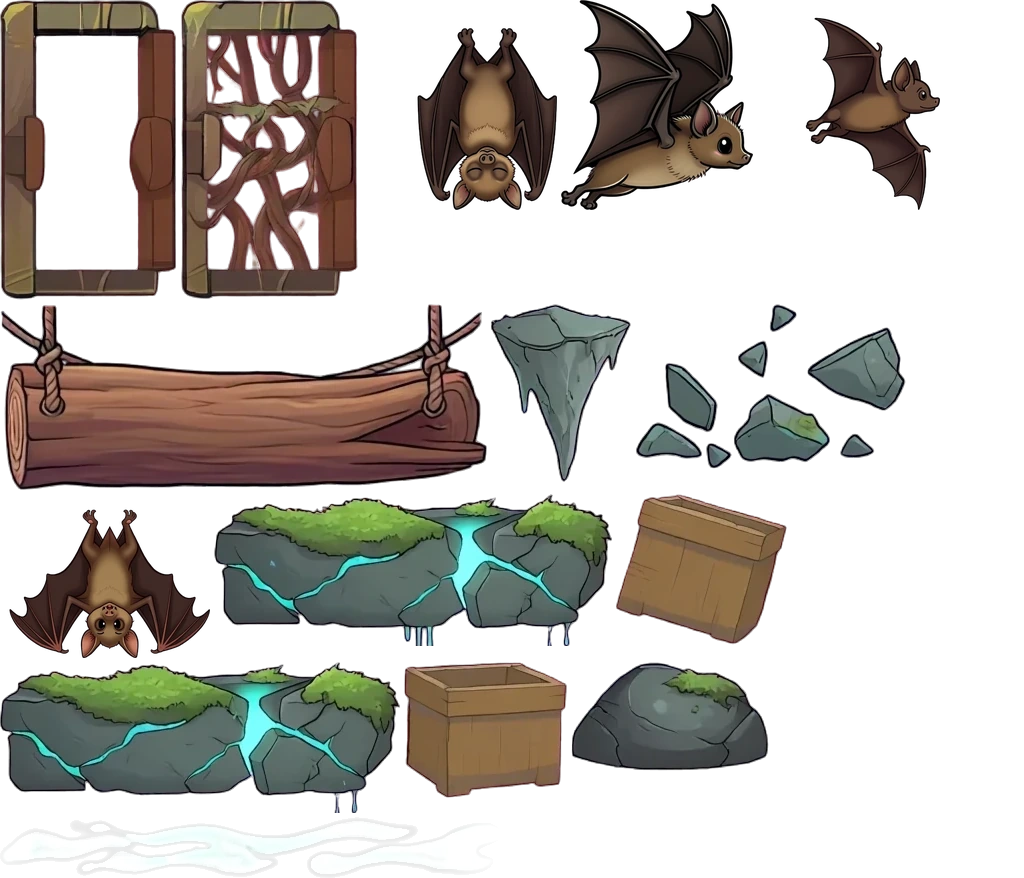
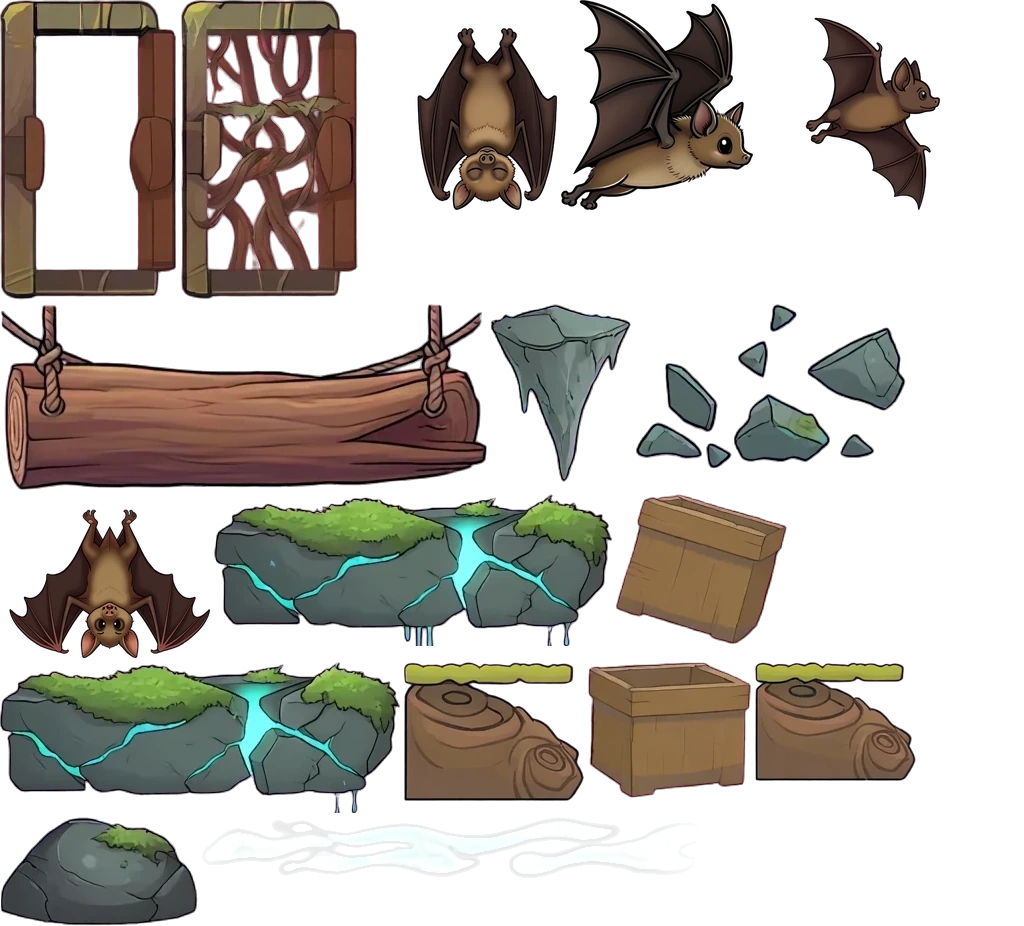
WIP (safe-keeping, paused by the lead): piece 5, the root gate (pieces/rootgate.ts), built before the pause message was read
World 1's never-drawn painted root gate (w1-new root-gate-shut / -open) as the door at the foot of the kit's root wall, opened for good
by standing on World 1's never-drawn knot block (w1-new knot-a, packed into pieces.webp) 90 px before it, so switch and gate share an
upright screen. piecesRootGate.test.ts (real engine, Normal and Easy): 4 of 4 pass. Full gates NOT yet run on this commit; label still
open for the designer; pieces 5-9 wait for the lead to resume them after 1-1.

Claude-Session: https://claude.ai/code/session_01FhBbYKusRP8mpek9qxLnF2

diff --git a/src/game/pieces/pieces.ts b/src/game/pieces/pieces.ts
@@ -13,6 +13,8 @@ import { PIECE_FRAMES, blitPiece, piecesReady } from './pieceArt.ts';
 import { LOG_CELL, logScale, slingRopes, stepSling } from './sling.ts';
 import { CRATE_CELL, crateState, stepCrate } from './crate.ts';
 import { stepSeesaw, type PieceEnv } from './seesaw.ts';
+import { GATE, stepGate } from './rootgate.ts';
+import { drawWallArt, protoArtReady } from '../protoArt.ts';
 import { drawKitArt, kitArtReady, kitSize } from '../puzzleArt.ts';
 import { KIT_ART } from '../puzzleAtlasData.ts';
 import { SEESAW_PIVOT } from '../puzzlePlay.ts';
@@ -20,28 +22,31 @@ import { drawRopeAlong, warmRopeKit } from '../ropeArt.ts';
 
 const still = { dx: 0, dy: 0 };
 /** move piece `p` to where it is at game time t; how far it moved (0, 0 for a piece that does not move) */
-export function stepPiece(p: Platform, t: number, env: PieceEnv): { dx: number; dy: number } {
+export function stepPiece(p: Platform, t: number, env: PieceEnv): { dx: number; dy: number; opened?: boolean } {
   if (p.sling) return stepSling(p, t);
   if (p.crate) return stepCrate(p, t);
   if (p.seesaw) return stepSeesaw(p, env);
+  if (p.rootgate) return stepGate(p, t, env);
   return still;
 }
 /** whether the engine's moving-platform loop leaves this platform to stepPiece */
-export const isPiece = (p: Platform) => !!p.sling || !!p.crate || !!p.seesaw;
+export const isPiece = (p: Platform) => !!p.sling || !!p.crate || !!p.seesaw || !!p.rootgate;
 
 /** the sheets a stage's pieces draw from (stagePreload.ts keys) */
 export function pieceSheets(platforms: readonly Platform[]): string[] {
   const out: string[] = [];
-  if (platforms.some((p) => p.sling || p.crate)) out.push('pieces');
+  if (platforms.some((p) => p.sling || p.crate || p.rootgate)) out.push('pieces');
+  if (platforms.some((p) => p.rootgate)) out.push('kit:1');
   if (platforms.some((p) => p.sling)) out.push('rope');
-  if (platforms.some((p) => p.seesaw)) out.push('kit-pieces');
+  if (platforms.some((p) => p.seesaw || p.rootgate)) out.push('kit-pieces');
   return out;
 }
 /** start loading what the pieces draw with (the engine asks as a stage starts) */
 export function warmPieces(platforms: readonly Platform[]): void {
-  if (platforms.some((p) => p.sling || p.crate)) piecesReady();
+  if (platforms.some((p) => p.sling || p.crate || p.rootgate)) piecesReady();
+  if (platforms.some((p) => p.rootgate)) protoArtReady();
   if (platforms.some((p) => p.sling)) warmRopeKit();
-  if (platforms.some((p) => p.seesaw)) kitArtReady();
+  if (platforms.some((p) => p.seesaw || p.rootgate)) kitArtReady();
 }
 
 interface View { x0: number; x1: number; y0: number; y1: number }
@@ -55,6 +60,7 @@ export function drawPieces(ctx: CanvasRenderingContext2D, platforms: readonly Pl
   for (const p of platforms) {
     if (p.crate) { drawCrate(ctx, p, v, t); continue; }
     if (p.seesaw) { if (p.seesaw.side === 0) drawSeesaw(ctx, p, platforms, v); continue; }
+    if (p.rootgate) { drawGatePart(ctx, p, v, t); continue; }
     if (p.broken || !p.sling) continue;
     const s = p.sling;
     const k = logScale(p.width);
@@ -117,4 +123,49 @@ function drawSeesaw(ctx: CanvasRenderingContext2D, p: Platform, platforms: reado
   const k = (w + 24) / sz.w;
   const f = KIT_ART[n];
   drawKitArt(ctx, n, s.pivotX + (f.ax - SEESAW_PIVOT[n]) * f.k * k, s.y + 10, { scale: k });
+}
+
+/** the knot block's walkable top in its cell (px of 139: its mossy top, read off the alpha) */
+const KNOT_TOP = 5;
+
+/**
+ * A root gate's part: the root wall (the kit's painted wall, only the part on screen), the door (the painted root gate: woven shut, then
+ * the bare frame, the roots drawing back over GATE.opening s with a shiver), the knot block (World 1's painted knot, sinking a touch once he
+ * has stood on it).
+ */
+function drawGatePart(ctx: CanvasRenderingContext2D, p: Platform, v: View, t: number): void {
+  const g = p.rootgate!;
+  if (g.role === 'wall') {
+    if (!seen(p.x, p.x + p.width, p.y, p.y + p.height, v)) return;
+    const top = Math.max(p.y, v.y0 - 60);
+    drawWallArt(ctx, p.x - 6, top, p.y + p.height + 14, p.width + 12);
+    return;
+  }
+  if (g.role === 'plate') return;
+  if (g.role === 'knot') {
+    // the knot block, its mossy top on the plate's top, a hair wider than its box; stood on, it sinks a little (a pressed switch)
+    if (!seen(p.x - 20, p.x + p.width + 20, p.y - 20, p.y + p.height, v)) return;
+    const f = PIECE_FRAMES['knot-a'];
+    const w = p.width * 1.12, h = (w * f.h) / f.w;
+    const sink = g.on ? Math.min(1, (t - g.at) / 0.12) * 4 : 0;
+    blitPiece(ctx, 'knot-a', p.x + p.width / 2 - w / 2, p.y - KNOT_TOP * (h / f.h) + sink, w, h);
+    return;
+  }
+  // the door: drawn by its height, centred on the doorway, its foot on the floor
+  if (!seen(p.x - 20, p.x + p.width + 20, p.y - 20, p.y + p.height, v)) return;
+  const f = PIECE_FRAMES['root-gate-shut'];
+  const h = GATE.doorH + 26, w = (h * f.w) / f.h;
+  const x = p.x + p.width / 2 - w / 2, y = p.y + p.height - h + 6;
+  const since = g.on ? t - g.at : -1;
+  if (!g.on || since < 0) { blitPiece(ctx, 'root-gate-shut', x, y, w, h); return; }
+  const k = Math.min(1, since / GATE.opening);
+  blitPiece(ctx, 'root-gate-open', x, y, w, h);
+  if (k < 1) {
+    // (the woven roots shiver and draw back: the shut picture over the open one, fading, shaking less as it goes)
+    const shake = Math.sin(since * 60) * 3 * (1 - k);
+    ctx.save();
+    ctx.globalAlpha = 1 - k;
+    blitPiece(ctx, 'root-gate-shut', x + shake, y - k * 10, w, h);
+    ctx.restore();
+  }
 }

diff --git a/src/game/pieces/rootgate.ts b/src/game/pieces/rootgate.ts
@@ -1,0 +1,72 @@
+/**
+ * The root gate (the lead's piece 5: kitStage.ts:6-7's vine gate opened by a plate, with World 1's root art): the way on runs through a
+ * doorway at the foot of a root wall that comes down out of the canopy (too tall to jump: it runs up out of the screen), its door grown
+ * shut with woven roots. A knot block before it opens it: hop up and stand on it and the roots draw back, and the door stays
+ * open (latched: it never shuts in his face). Its first time is taught by the stage's own Dot line ("Dot explains any locked exit",
+ * CLAUDE.md), as any node's is.
+ *
+ * Reused (cited): the root wall is the kit's own painted wall (protoArt.ts drawWallArt, the wall over every World 1 kit gate,
+ * puzzlePlay.ts drawGate), the door the root gate painted for World 1 and never drawn (w1-new root-gate-shut / root-gate-open,
+ * IN-GAME-UNUSED.md), the switch World 1's painted knot block (w1-new knot-a, never drawn either); the door's height and the plate's width
+ * is the kit's (puzzleKit.ts KIT.doorH 118); a latched gate is the kit's `latch` (puzzleKit.ts gate spec). The door is a
+ * solid platform (the engine's walls are solid and 50 px or taller: engine.ts "Solid ground blocks") that stands in his way while shut
+ * and is `broken` (passed through) once open, as the engine passes any broken platform; only the plate is stepped (a 'moving' piece).
+ */
+import type { Platform } from '../types.ts';
+import { KIT } from '../puzzleKit.ts';
+
+export interface GateInfo {
+  /** which part this platform is: the knot block (its painted switch), the plate on its top he steps on, the door that opens, or the
+   *  wall over the door */
+  role: 'plate' | 'knot' | 'door' | 'wall';
+  /** the gate's own number: the plate opens the door of the same number */
+  gate: number;
+  /** pressed (a plate) or open (a door), and the game time it happened (for the opening's moment) */
+  on: boolean;
+  at: number;
+}
+
+/** the sizes (the kit's door and plate; the wall reaches this far over the door: out of every phone's view and any jump) */
+export const GATE = { doorW: 80, doorH: KIT.doorH, wallUp: 900, knotH: 70, knotW: 80, opening: 0.6, gap: 90 } as const;
+
+/**
+ * A root gate on the floor at `floorY`, its doorway at `x` (the door's left), its switch `gap` px before the door: World 1's painted knot
+ * block (w1-new knot-a, never drawn: a block of knotted wood with a flat mossy top), a hop up (70 px; a plain jump is 108), and close
+ * enough that the switch and the gate are on one upright screen together (STAGE-RULES §3: a switch and its gate read as one thing). The
+ * platforms in order: the knot block (solid: a wall to walk into), the plate on its top (what he stands on; a 'moving' piece, so it is
+ * the floor picked over the block, lift.ts pickFloor), the wall, the door (the caller gives ids; all share `gate`).
+ */
+export function rootGate(o: { x: number; floorY: number; gate: number; gap?: number }): Array<Omit<Platform, 'id'>> {
+  const G = o.floorY;
+  const kx = Math.round(o.x - (o.gap ?? GATE.gap) - GATE.knotW);
+  const info = (role: GateInfo['role']): GateInfo => ({ role, gate: o.gate, on: false, at: -9 });
+  return [
+    { x: kx, y: G - GATE.knotH, width: GATE.knotW, height: GATE.knotH, type: 'solid', art: 'rootgate', rootgate: info('knot') },
+    { x: kx, y: G - GATE.knotH, width: GATE.knotW, height: 8, type: 'moving', art: 'rootgate', rootgate: info('plate'), moveRange: 0 },
+    { x: o.x, y: G - GATE.doorH - GATE.wallUp, width: GATE.doorW, height: GATE.wallUp, type: 'solid', art: 'rootgate', rootgate: info('wall') },
+    { x: o.x, y: G - GATE.doorH, width: GATE.doorW, height: GATE.doorH, type: 'solid', art: 'rootgate', rootgate: info('door') },
+  ];
+}
+
+export interface GateEnv { standingOn: number; grounded: boolean; platforms: readonly Platform[] }
+const still = { dx: 0, dy: 0 };
+const opened = { dx: 0, dy: 0, opened: true };
+/** the frame step: a plate he stands on is pressed (and stays pressed), and opens its door; an open door is passed through. Returns
+ *  'opened' the frame a door opens (the engine plays its sound) */
+export function stepGate(p: Platform, t: number, env: GateEnv): { dx: number; dy: number; opened?: boolean } {
+  const g = p.rootgate!;
+  if (g.role === 'plate' && !g.on && env.grounded && env.standingOn === p.id) {
+    g.on = true;
+    g.at = t;
+    for (const q of env.platforms) {
+      const d = q.rootgate;
+      if (d && d.gate === g.gate && !d.on && (d.role === 'door' || d.role === 'knot')) {
+        d.on = true;
+        d.at = t;
+        if (d.role === 'door') q.broken = true;
+      }
+    }
+    return opened;
+  }
+  return still;
+}

diff --git a/src/game/piecesRootGate.test.ts b/src/game/piecesRootGate.test.ts
@@ -1,0 +1,75 @@
+// The root gate (src/game/pieces/rootgate.ts): shut, its door stops him and its root wall is too tall to jump; one step on the knot plate
+// opens it for good, and he walks through. Real engine, Normal and Easy.
+import test from 'node:test';
+import assert from 'node:assert/strict';
+import { GATE, rootGate } from './pieces/rootgate.ts';
+import { bareWorld, rng, THUMB } from './pieces/pieceBot.ts';
+import { LANDINGS, landingKind } from './mixer/catalog.ts';
+import { DT, type RealPlay } from './realPlay.ts';
+import type { Platform } from './types.ts';
+
+const G = 1000, DOOR_X = 1200;
+function course() {
+  const parts = rootGate({ x: DOOR_X, floorY: G, gate: 1 }).map((p, i) => ({ id: 10 + i, ...p, ...(p.rootgate ? { rootgate: { ...p.rootgate } } : {}) }) as Platform);
+  const floor: Platform = { id: 1, x: 0, y: G, width: 3000, height: 400, type: 'solid', style: 'moss_stone' };
+  return [floor, ...parts];
+}
+const door = (rp: RealPlay) => rp.platforms.find((p) => p.rootgate?.role === 'door')!;
+
+test('shut, the door stops a walk and the wall over it stops every jump', () => {
+  for (const setting of ['normal', 'easy'] as const) {
+    const rp = bareWorld(course(), setting);
+    rp.stand(DOOR_X - 60, G);
+    for (let i = 0; i < 90; i++) rp.frame({ right: true });
+    assert.ok(rp.p.x < DOOR_X, `${setting}: a walk stops at the door (x ${rp.p.x.toFixed(0)})`);
+    // the best jump there is: a held jump and the second at its top, steering on
+    rp.stand(DOOR_X - 140, G);
+    for (let i = 0; i < 70; i++) rp.frame({ press: i === 0 || i === 10, jump: i < 10 || (i > 10 && i < 22), right: true });
+    assert.ok(rp.p.x < DOOR_X, `${setting}: no jump gets over the wall (x ${rp.p.x.toFixed(0)})`);
+    assert.equal(door(rp).broken, undefined, 'still shut');
+  }
+});
+
+test('real engine: a hop onto the knot block opens it, it stays open, and he walks through (first-timer thumbs, Normal and Easy)', () => {
+  for (const setting of ['normal', 'easy'] as const) {
+    const r = rng(setting === 'easy' ? 21 : 22);
+    const th = THUMB[setting];
+    let through = 0;
+    const N = 20;
+    for (let k = 0; k < N; k++) {
+      const rp = bareWorld(course(), setting);
+      const rock = rp.platforms.find((p) => p.rootgate?.role === 'knot')!;
+      rp.stand(rock.x - 60, G);
+      // walk up to the rock and hop onto it: a short thumb (held N(hold) s), steering on until he lands
+      const hold = Math.max(0.06, th.hold[0] + (r() - 0.5) * 2 * th.hold[1]);
+      for (let i = 0; i < 60 && rp.p.x < rock.x - 24; i++) rp.frame({ right: true });
+      for (let i = 0; i < 40; i++) { rp.frame({ press: i === 0, jump: i * DT < hold, right: true }); if (i > 2 && rp.p.grounded) break; }
+      // then on: off the rock's far side and through the door
+      for (let i = 0; i < 240; i++) rp.frame({ right: true });
+      if (rp.p.x > DOOR_X + GATE.doorW + 20 && door(rp).broken) through++;
+    }
+    assert.ok(through / N >= (setting === 'easy' ? 0.85 : 0.7), `${setting}: through ${through} of ${N}`);
+  }
+});
+
+test('open, it stays open: back and through again, and after time', () => {
+  const rp = bareWorld(course(), 'normal');
+  const plate = rp.platforms.find((p) => p.rootgate?.role === 'plate')!;
+  rp.stand(plate.x + plate.width / 2, plate.y);
+  rp.frame();
+  rp.frame();
+  assert.equal(door(rp).broken, true, 'standing on the plate opened it');
+  // (down off the block, between it and the door, five seconds on)
+  rp.stand(DOOR_X - 50, G);
+  rp.wait(5);
+  for (let i = 0; i < 120; i++) rp.frame({ right: true });
+  assert.ok(rp.p.x > DOOR_X + GATE.doorW, 'still open five seconds later, with him off the plate');
+});
+
+test('its label is in the library: built, on the ground, never floating; World 1 on', () => {
+  const parts = course().filter((p) => p.rootgate);
+  for (const p of parts) assert.deepEqual(landingKind(p as Platform & Record<string, unknown>).map((q) => q.name), ['root gate']);
+  const e = LANDINGS.find((q) => q.name === 'root gate')!;
+  assert.equal(e.mayFloat, 'no');
+  assert.ok(e.worlds.includes(1));
+});

diff --git a/src/game/mixer/catalog.ts b/src/game/mixer/catalog.ts
@@ -68,7 +68,7 @@ export const LANDINGS: LandingKind[] = [
     notes: "never World 1 (SHIPPED acf6e1e8; ENGINE-SPEC 10:09 AM): 1-5's 4 fragile ruin are a breach, to become World 1 creaky limbs" },
   { name: 'breaking or bouncing stone', match: (p) => (p.type === 'fragile' || p.type === 'bouncy') && p.style === 'moss_stone' || p.type === 'bouncy' && p.style === 'ruin', element: 'stone', footing: 'as a stone', mayFloat: 'no',
     uses: 'a breaking or bouncing stone', worlds: [5, 7, 8, 9, 10], noNew: 'OPEN: "a rock bounces you" reads oddly; waits on a still for Matt', open: true },
-  { name: 'moving platform', match: (p) => p.type === 'moving' && !p.sling && !p.crate && !p.seesaw && (p.style === 'log' || p.style === 'canopy_bridge' || art(p) === 'lift'), element: 'built', footing: 'a track or a rope', mayFloat: 'yes',
+  { name: 'moving platform', match: (p) => p.type === 'moving' && !p.sling && !p.crate && !p.seesaw && !p.rootgate && (p.style === 'log' || p.style === 'canopy_bridge' || art(p) === 'lift'), element: 'built', footing: 'a track or a rope', mayFloat: 'yes',
     uses: 'moving platform (planned teach 2-7, R-164.9); the lift (2-7)', worlds: [2, 5, 6, 8, 9] },
   { name: 'moving stone', match: (p) => p.type === 'moving' && (p.style === 'moss_stone' || p.style === 'ruin'), element: 'stone', footing: 'none: it moves through the air', mayFloat: 'no', uses: '(none)', worlds: [7, 9, 10],
     noNew: 'breaks rule 1 (rocks never float): today\'s 5 go on the known list; their job goes to a log, plank or lift kin' },
@@ -87,6 +87,9 @@ export const LANDINGS: LandingKind[] = [
   { name: 'counterweight seesaw', match: (p) => !!p.seesaw, element: 'ground', footing: 'its painted round pivot on the floor; the bank it lifts him to is too high to jump', mayFloat: 'no',
     uses: 'a step up a bank too high to jump: push the log onto the near end, its weight holds it down, the far end stays up as the step (the second jump from its top); alone, his weight tips it down', worlds: [1, 2, 3, 4, 6, 8],
     teaches: 'the counterweight (1-6\'s seesaw rooms teach it; on the route from then on)', notes: 'the kit\'s rules and painted planks (puzzleKit.ts, puzzleArt.ts), 1-6\'s sizes; the weight is the engine\'s push log', open: true },
+  { name: 'root gate', match: (p) => !!p.rootgate, element: 'tree', footing: 'the door at the foot of a root wall that comes down out of the canopy (too tall to jump); the plate on a mossy rock on the floor before it', mayFloat: 'no',
+    uses: 'a locked way on: step on the knot plate and the woven roots draw back; it stays open', worlds: [1, 3, 4, 6, 8],
+    teaches: 'a switch opens a gate (the kit\'s CARRY room teaches plates; on the route Dot names the locked way the first time)', notes: 'World 1\'s painted root gate (w1-new, never drawn) and the kit\'s root wall and knot plate', open: true },
   // (measured in the inventory, with no row in LABELS.md yet: open until the designer rules)
   { name: 'breaking log or plank', match: (p) => p.type === 'fragile' && (p.style === 'log' || p.style === 'canopy_bridge'), element: 'tree', footing: '(not ruled)', mayFloat: 'yes', uses: 'a log or plank that gives way (W5-W10)', worlds: [5, 7, 8, 9, 10], open: true, noNew: 'no label yet: the designer rules it' },
 ];

diff --git a/src/game/types.ts b/src/game/types.ts
@@ -334,13 +334,15 @@ export interface Platform {
   /** drawn by a painted piece instead of the platform look: the lift's basket, a step of the carved steps, a porch deck (riverArt.ts), World 4's fern bridge, a pushed boulder and a pool's floating log (w4Play.ts), and World 4's little mossy rocks to hop (`rock`, protoArt drawRockArt), the mailbox post at a porch's dead end in 2-6 (`post`, a knot: `lip`), and 6-8's ledges in World 6's pieces (`stilt`, w6StiltArt.ts) */
   art?: 'lift' | 'steps' | 'porch' | 'frond' | 'boulder' | 'poolLog' | 'orchid' | 'kit' | 'rock' | 'post' | 'stilt' | 'hidden'
     // (the engine pieces, src/game/pieces/: each drawn by its own art there, pieces.ts drawPieces)
-    | 'sling' | 'crate' | 'seesaw';
+    | 'sling' | 'crate' | 'seesaw' | 'rootgate';
   /** a slung log: a 'moving' platform swinging on two ropes from a bough (src/game/pieces/sling.ts) */
   sling?: import('./pieces/sling.ts').SlingInfo;
   /** a bobbing crate on still water: a 'moving' platform that tips and goes under on a cycle (src/game/pieces/crate.ts) */
   crate?: import('./pieces/crate.ts').CrateInfo;
   /** one half of a counterweight seesaw on the route: a 'moving' platform tipped by the weights on its two halves (src/game/pieces/seesaw.ts) */
   seesaw?: import('./pieces/seesaw.ts').SeesawInfo;
+  /** a part of a root gate on the route: its plate, its door (open: broken, passed through) or the root wall over it (src/game/pieces/rootgate.ts) */
+  rootgate?: import('./pieces/rootgate.ts').GateInfo;
   /** one of the Sky Sovereign's rock pillars in 4-10 (sovereignFight.ts): its index. It is a wall with a top to stand on; it cracks, and broken it is a stump */
   pillar?: number;
   /** a knot of wood standing at the end of a high branch (4-6; a mailbox post on 2-6's porches): a little wall, so he cannot walk off it

diff --git a/src/game/pieces/pieceArt.ts b/src/game/pieces/pieceArt.ts
@@ -1,7 +1,7 @@
 /**
  * The engine pieces' art (src/game/pieces/): one small sheet, src/assets/pieces/pieces.webp, packed by tools/art/pieces/pack.py from
  * painted cells that were packed and never drawn (reference/engine/unused-art/IN-GAME-UNUSED.md): World 4's slung log, World 2's crates
- * and waterline, World 3's counterweight, cracks, bats and stalactites, World 1's root gates. 1024 px wide, about 3.6 MB decoded.
+ * and waterline, World 3's counterweight, cracks, bats and stalactites, World 1's root gates and knot blocks. 1024 px wide, about 3.6 MB decoded.
  *
  * Every draw returns false until the sheet has loaded; nothing is ever drawn in its place (a stage that lays a piece asks for the sheet
  * before it starts: pieceSheets in pieces.ts, stageSheets.ts 'pieces').
@@ -22,9 +22,11 @@ export const PIECE_FRAMES = {
   'crack-cracking': { x: 214, y: 494, w: 398, h: 152 },
   'crate-down': { x: 616, y: 494, w: 171, h: 151 },
   'crack-whole': { x: 0, y: 662, w: 400, h: 151 },
-  'crate-up': { x: 404, y: 662, w: 163, h: 136 },
-  'counterweight': { x: 571, y: 662, w: 198, h: 109 },
-  'waterline': { x: 0, y: 817, w: 501, h: 61 },
+  'knot-a': { x: 404, y: 662, w: 180, h: 139 },
+  'crate-up': { x: 588, y: 662, w: 163, h: 136 },
+  'knot-b': { x: 755, y: 662, w: 161, h: 119 },
+  'counterweight': { x: 0, y: 817, w: 198, h: 109 },
+  'waterline': { x: 202, y: 817, w: 501, h: 61 },
 } as const;
 export type PieceCell = keyof typeof PIECE_FRAMES;
 

diff --git a/src/game/engine.ts b/src/game/engine.ts
@@ -1575,6 +1575,7 @@ export class GameEngine {
         const env = this.pieceEnv;
         env.standingOn = this.standingOnId; env.grounded = p.grounded; env.platforms = this.platforms; env.dt = dt;
         const m = stepPiece(plat, this.gameTime, env);
+        if (m.opened) sound.playGate();
         if (p.grounded && this.standingOnId === plat.id) { p.x += m.dx; p.y += m.dy; }
         continue;
       }

diff --git a/tools/art/pieces/pack.py b/tools/art/pieces/pack.py
@@ -22,6 +22,8 @@ CELLS = [
     ('w1to4art/w3-new', 'counterweight', 1.0),
     ('w1to4art/w1-new', 'root-gate-shut', 1.0),
     ('w1to4art/w1-new', 'root-gate-open', 1.0),
+    ('w1to4art/w1-new', 'knot-a', 0.6),         # drawn ~70 tall: 2x is ~140, the cell is 231
+    ('w1to4art/w1-new', 'knot-b', 0.6),
     ('w1to4art/w3-new', 'crack-whole', 1.0),
     ('w1to4art/w3-new', 'crack-cracking', 1.0),
     ('w1to4art/w3-new', 'bat-asleep', 0.5),     # drawn ~70-90 tall: 2x is ~180, the cell is 420
